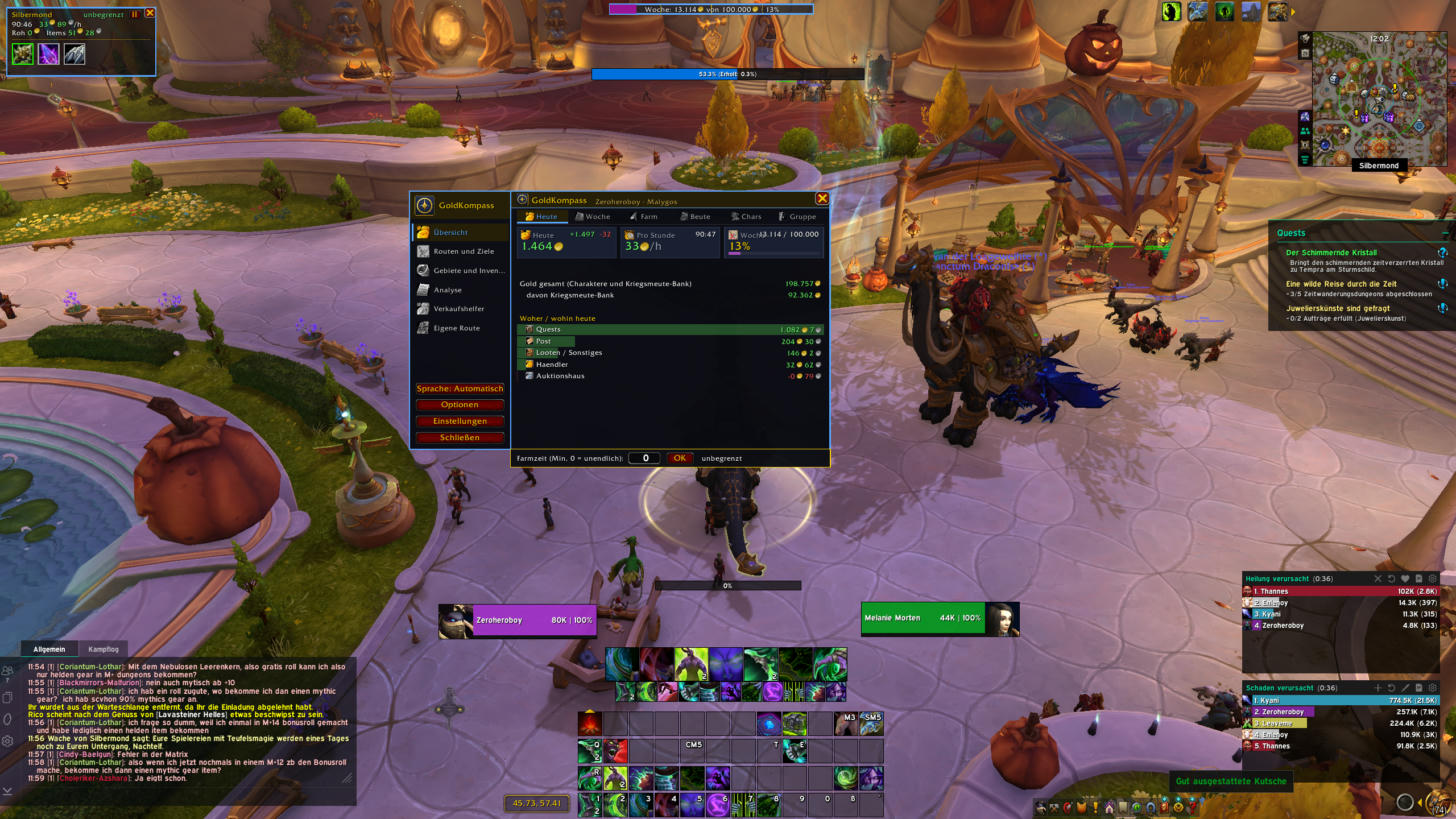
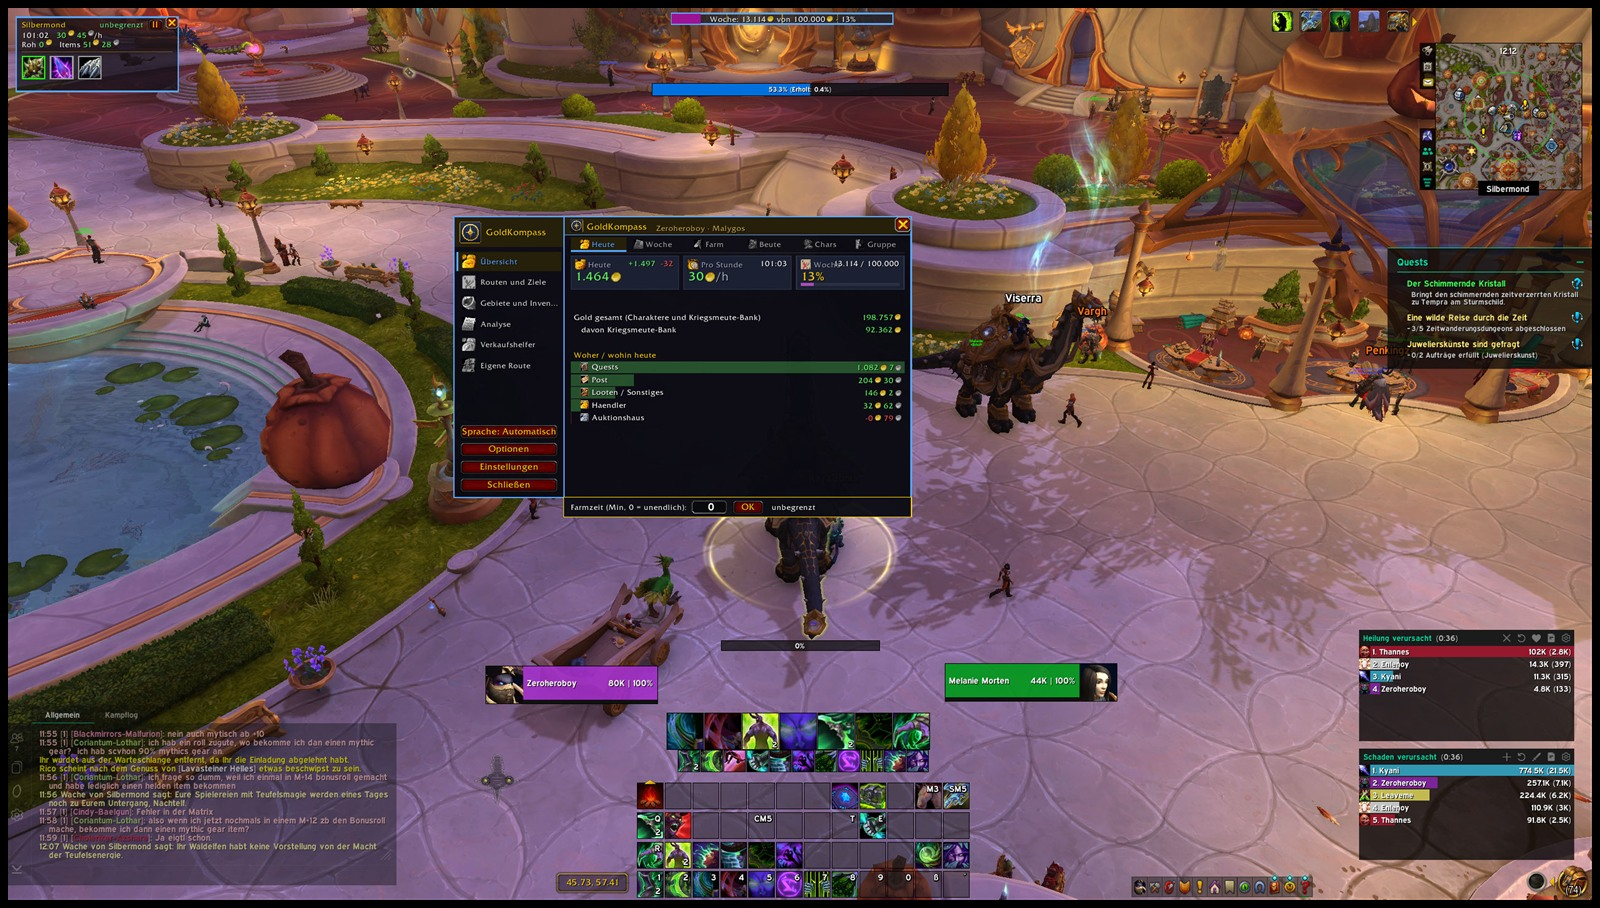
Neue, scharfe Screenshots

diff --git a/README.md b/README.md
@@ -150,14 +150,18 @@ Den Ordner `GoldKompass` nach `World of Warcraft/_retail_/Interface/AddOns` kopi
 
 ![Overview](docs/overview.jpg)
 
-![Overview and analysis](docs/analysis.jpg)
+![Week](docs/week.jpg)
 
 ![Farm](docs/farm.jpg)
 
-![Routes](docs/routes.jpg)
+![Loot](docs/loot.jpg)
 
-![Savings goals](docs/goals.jpg)
+![Characters](docs/characters.jpg)
+
+![Overview and analysis](docs/analysis.jpg)
 
 ![Sell helper](docs/sellhelper.jpg)
+
+![Settings](docs/settings.jpg)
 
 ![In game](docs/ingame.jpg)
